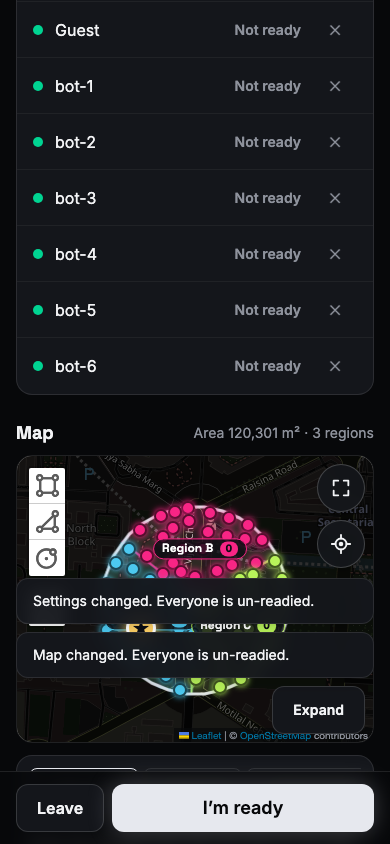
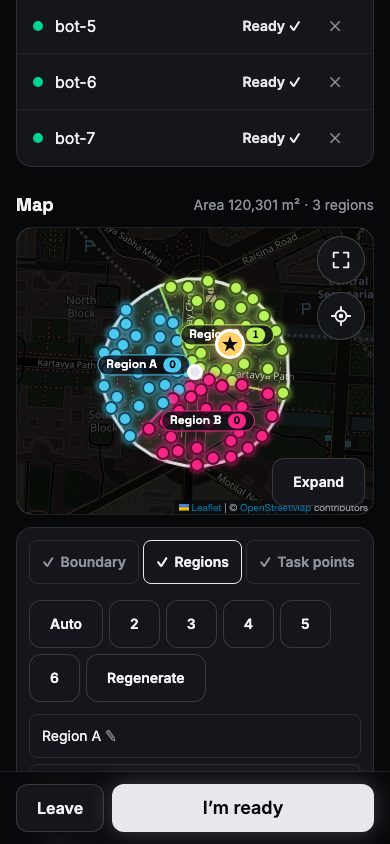
chore(release): version 1.0.0 and MIT licence fields; 10-player advice (ADR-109); README screenshots
- Every package is 1.0.0 with "license": "MIT".
- ADR-109: no field data yet, so the GPS and meeting numbers stay; at 10
  players the simulator gives 47% imposter wins with 2 imposters and target
  260 (CONFIG.md advice), the auto rule is unchanged.
- The spotInCard test hook loads its geometry on demand (initial JS back to
  124 KB gzipped from 140).
- README: clean lobby and role-reveal screenshots.

Claude-Session: https://claude.ai/code/session_013C4Ezs7PhYDEadqHmpeFzv

diff --git a/apps/client/src/main.tsx b/apps/client/src/main.tsx
@@ -1,6 +1,5 @@
 import './styles/index.css';
 
-import { createRng, DEFAULT_CONFIG, pointInSection } from '@afterdark/shared';
 import { StrictMode } from 'react';
 import { createRoot } from 'react-dom/client';
 
@@ -43,21 +42,8 @@ if (import.meta.env.DEV || new URLSearchParams(location.search).has('sim')) {
     },
     /** The viewer's own task cards. */
     cardsOf: () => useGame.getState().view?.game?.tasks ?? [],
-    /**
-     * A spot inside card `index`'s section, checked with the server's own rule (`pointInSection`,
-     * as the bots use): the drawn wedge and the rule can disagree by a sliver at a border (ADR-044).
-     */
-    spotInCard: (index: number) => {
-      const v = useGame.getState().view;
-      const card = v?.game?.tasks?.[index];
-      if (!v || !card) return undefined;
-      return pointInSection(
-        v.lobby.map.regions,
-        card,
-        DEFAULT_CONFIG.sectionCentreRatio,
-        createRng(index + 1),
-      );
-    },
+    /** A spot inside card `index`'s section by the server's rule (loaded on demand, see `sim/spotInCard.ts`). */
+    spotInCard: async (index: number) => (await import('./sim/spotInCard')).spotInCard(index),
     /** The Base's position (it is on everyone's map): where a test sends its simulated players for a meeting. */
     baseOf: () => useGame.getState().view?.lobby.map.base,
     /** A Phantom's own fakes (where a test sends the crew player who will be fooled). */

diff --git a/apps/client/src/sim/spotInCard.ts b/apps/client/src/sim/spotInCard.ts
@@ -1,0 +1,20 @@
+/**
+ * Test hook (e2e): a spot inside one of the viewer's task cards' sections, checked with the
+ * server's own rule (`pointInSection`, as the bots use); the drawn wedge and the rule can disagree
+ * by a sliver at a border (ADR-044). Loaded on demand so the geometry stays out of the entry chunk.
+ */
+import { createRng, DEFAULT_CONFIG, type LatLng, pointInSection } from '@afterdark/shared';
+
+import { useGame } from '../store';
+
+export function spotInCard(index: number): LatLng | undefined {
+  const v = useGame.getState().view;
+  const card = v?.game?.tasks?.[index];
+  if (!v || !card) return undefined;
+  return pointInSection(
+    v.lobby.map.regions,
+    card,
+    DEFAULT_CONFIG.sectionCentreRatio,
+    createRng(index + 1),
+  );
+}

diff --git a/docs/DECISIONS.md b/docs/DECISIONS.md
@@ -482,3 +482,7 @@ Accounts, profiles, XP and cosmetics; public rooms and matchmaking; chat; AR/cam
 **Decision:** (1) **Server-time bound.** The speed check's gap between two fixes is `max(speedCheckMinDtS, min(device gap, server gap + speedCheckMinDtS))`, where the server gap is the difference of the two receive times (`receivedAt`, now also kept on pending fixes). Before, only the device `ts` was used and only *future* stamps were refused, so a modified client could re-send its current spot stamped in 1970 and then jump anywhere "a lifetime later": a two-message teleport. Now a client can never claim more time than the server saw pass (plus 1 s for network bunching); an honest late fix still uses its smaller device gap, and an out-of-order stamp is still the minimum gap (ADR-040). (2) **Re-anchor count.** Each re-anchor (3 consistent fixes after a refused jump) increments the server-only `PlayerState.gpsReanchors` and emits an `audit` effect with the player id and the count, never a position. `wiring.ts` logs it at `debug`, and from `gpsReanchorWarnAt` (3) on at `warn` as "repeated GPS jumps". Test-mode teleports are not counted. (3) **No "suspicious GPS" indicator.** Not for the host: ARCHITECTURE §10 and leak test 4 say the host has no hidden-information powers and the same view shape as anyone else, and a host-only field breaks both. Not for everyone either: in a social-deduction game a public flag turns ordinary GPS noise (a re-anchor after a bad fix under trees) into "evidence" against an innocent player, and the count says nothing about roles anyway.
 **Why:** a determined spoofer with a mock-location app can still walk a fake path at up to 12 m/s or re-anchor in about 1.5 s: nothing in a browser can prove a position is real. The goal is that a spoof costs effort and leaves a trace, without hurting honest players with bad GPS. The re-anchor rule itself is unchanged, because it is how an honest player recovers when an outlier was stored.
 
+### ADR-109 · Phase 14 tuning: no field data yet, defaults unchanged; 10-player advice instead of a new rule · Accepted (Phase 14)
+**Decision:** (1) **GPS and meeting numbers stay as they are.** PHASE-14 §14.5 asks to tune `infectionRadiusM` (8), `reachRadiusM` (15), `sectionEntryHoldS` (3), `infectionGapToleranceS` (3), `baseRadiusM` (30), `meetingGatherS` (180) and the other meeting stages "from real data". The only field notes so far (2026-11-24, one Android phone) were about layout, and all of them were fixed in the UI/UX pass; nobody has measured GPS error at a pin, a channel's in-range time, or a walk to the Base yet. Changing numbers without data would be guessing, so each keeps its Phase 2–11 reason (ADR-040, 058–064, 067–071, 072–077, 094). What to measure, and the knob it would move, is in PROGRESS › Manual actions. (2) **10 players.** The auto rule stays (10–12 players → 3 imposters). The balance script, 200 games each: 3 imposters 73.5% imposter wins at the default target 130 and 82.0% at the hint's 154, 66.5% at 100; 2 imposters 14.0% at 130, 25.5% at 176 (the hint, 22 per crew), 40.0% at 230, **47.0% at 260** (median 22.4 min, a third of games to time-up). CONFIG.md now gives hosts that advice under `imposterCount`.
+**Why:** one global set of defaults cannot balance 6, 8 and 10 players at once, and scaling the target or the imposter count with the player count would be a new rule (PHASE-14 says no new features). The auto rule's 3 imposters at 10 is the familiar convention and is nearer even at the default target (23.5 points off) than 2 is (36 off). The `targetScoreHintPerCrew` hint (22) is right at 8 players and too low above it; changing the hint alone would not change any default. Revisit with player-count-aware defaults after real games.
+

diff --git a/README.md b/README.md
@@ -14,14 +14,15 @@ No accounts and no app store: share a 6-letter code and play. **Live:** <https:/
 
 <table>
   <tr>
-    <td><img src="docs/screenshots/lobby.png" width="180" alt="The lobby: the host's area split into regions, the roster and the checklist"></td>
-    <td><img src="docs/screenshots/game.png" width="180" alt="A crew player's game screen: the map with regions, three task cards with directions and distances"></td>
-    <td><img src="docs/screenshots/jammed.png" width="180" alt="Systems jammed: an imposter's Task Stop locks every task for 30 seconds"></td>
-    <td><img src="docs/screenshots/meeting.png" width="180" alt="A meeting's result: the vote tallies and No one was ejected"></td>
-    <td><img src="docs/screenshots/results.png" width="180" alt="The results: Imposters win, and who was who"></td>
+    <td><img src="docs/screenshots/lobby.png" width="150" alt="The lobby: the host's drawn area split into three coloured regions dotted with task points, and the setup steps"></td>
+    <td><img src="docs/screenshots/reveal.png" width="150" alt="The secret role reveal, held down: CREW, with the player's tag ONYX-43"></td>
+    <td><img src="docs/screenshots/game.png" width="150" alt="A crew player's game screen: the map with regions, three task cards with directions and distances"></td>
+    <td><img src="docs/screenshots/jammed.png" width="150" alt="Systems jammed: an imposter's Task Stop locks every task for 30 seconds"></td>
+    <td><img src="docs/screenshots/meeting.png" width="150" alt="A meeting's result: the vote tallies and No one was ejected"></td>
+    <td><img src="docs/screenshots/results.png" width="150" alt="The results: Imposters win, and who was who"></td>
   </tr>
   <tr>
-    <td>Lobby and area</td><td>Crew tasks</td><td>Task Stop</td><td>Meeting vote</td><td>Results</td>
+    <td>Lobby and area</td><td>Secret role</td><td>Crew tasks</td><td>Task Stop</td><td>Meeting vote</td><td>Results</td>
   </tr>
 </table>
 

diff --git a/docs/CONFIG.md b/docs/CONFIG.md
@@ -17,7 +17,7 @@ The Phase 11 balance script and the Phase 14 field test may change defaults. Rec
 | `targetScoreHintPerCrew` | 22 | — | 🔒 | Multiplier for the UI hint `targetScoreHintPerCrew × crewCount`. |
 | `minPlayers` | 4 | — | 🔒 | Fewer than this cannot start. |
 | `maxPlayers` | 12 | — | 🔒 | Lobby is full at 12. |
-| `imposterCount` | `auto` | auto, 1–3 | ✅ | auto: 4–5 players → 1, 6–9 → 2, 10–12 → 3. At least 3 crew must remain. |
+| `imposterCount` | `auto` | auto, 1–3 | ✅ | auto: 4–5 players → 1, 6–9 → 2, 10–12 → 3. At least 3 crew must remain. For 10 players the bot simulation favours imposters with the defaults (73.5%); hosts get close to even with **2 imposters and `targetScore` 260** (47%, median 22 min; ADR-109). |
 | `imposterCountAuto` | `[{maxPlayers:5,count:1},{maxPlayers:9,count:2},{maxPlayers:12,count:3}]` | — | 🔒 | The `auto` rule above, as data: the first entry whose `maxPlayers` ≥ player count wins. |
 | `minCrewRemaining` | 3 | — | 🔒 | A manual imposter count that would leave fewer crew than this is invalid. |
 | `imposterAbilityMode` | `classes` | classes, all | ✅ | `classes`: one secret class per imposter. `all`: every imposter has all 3 abilities. |
